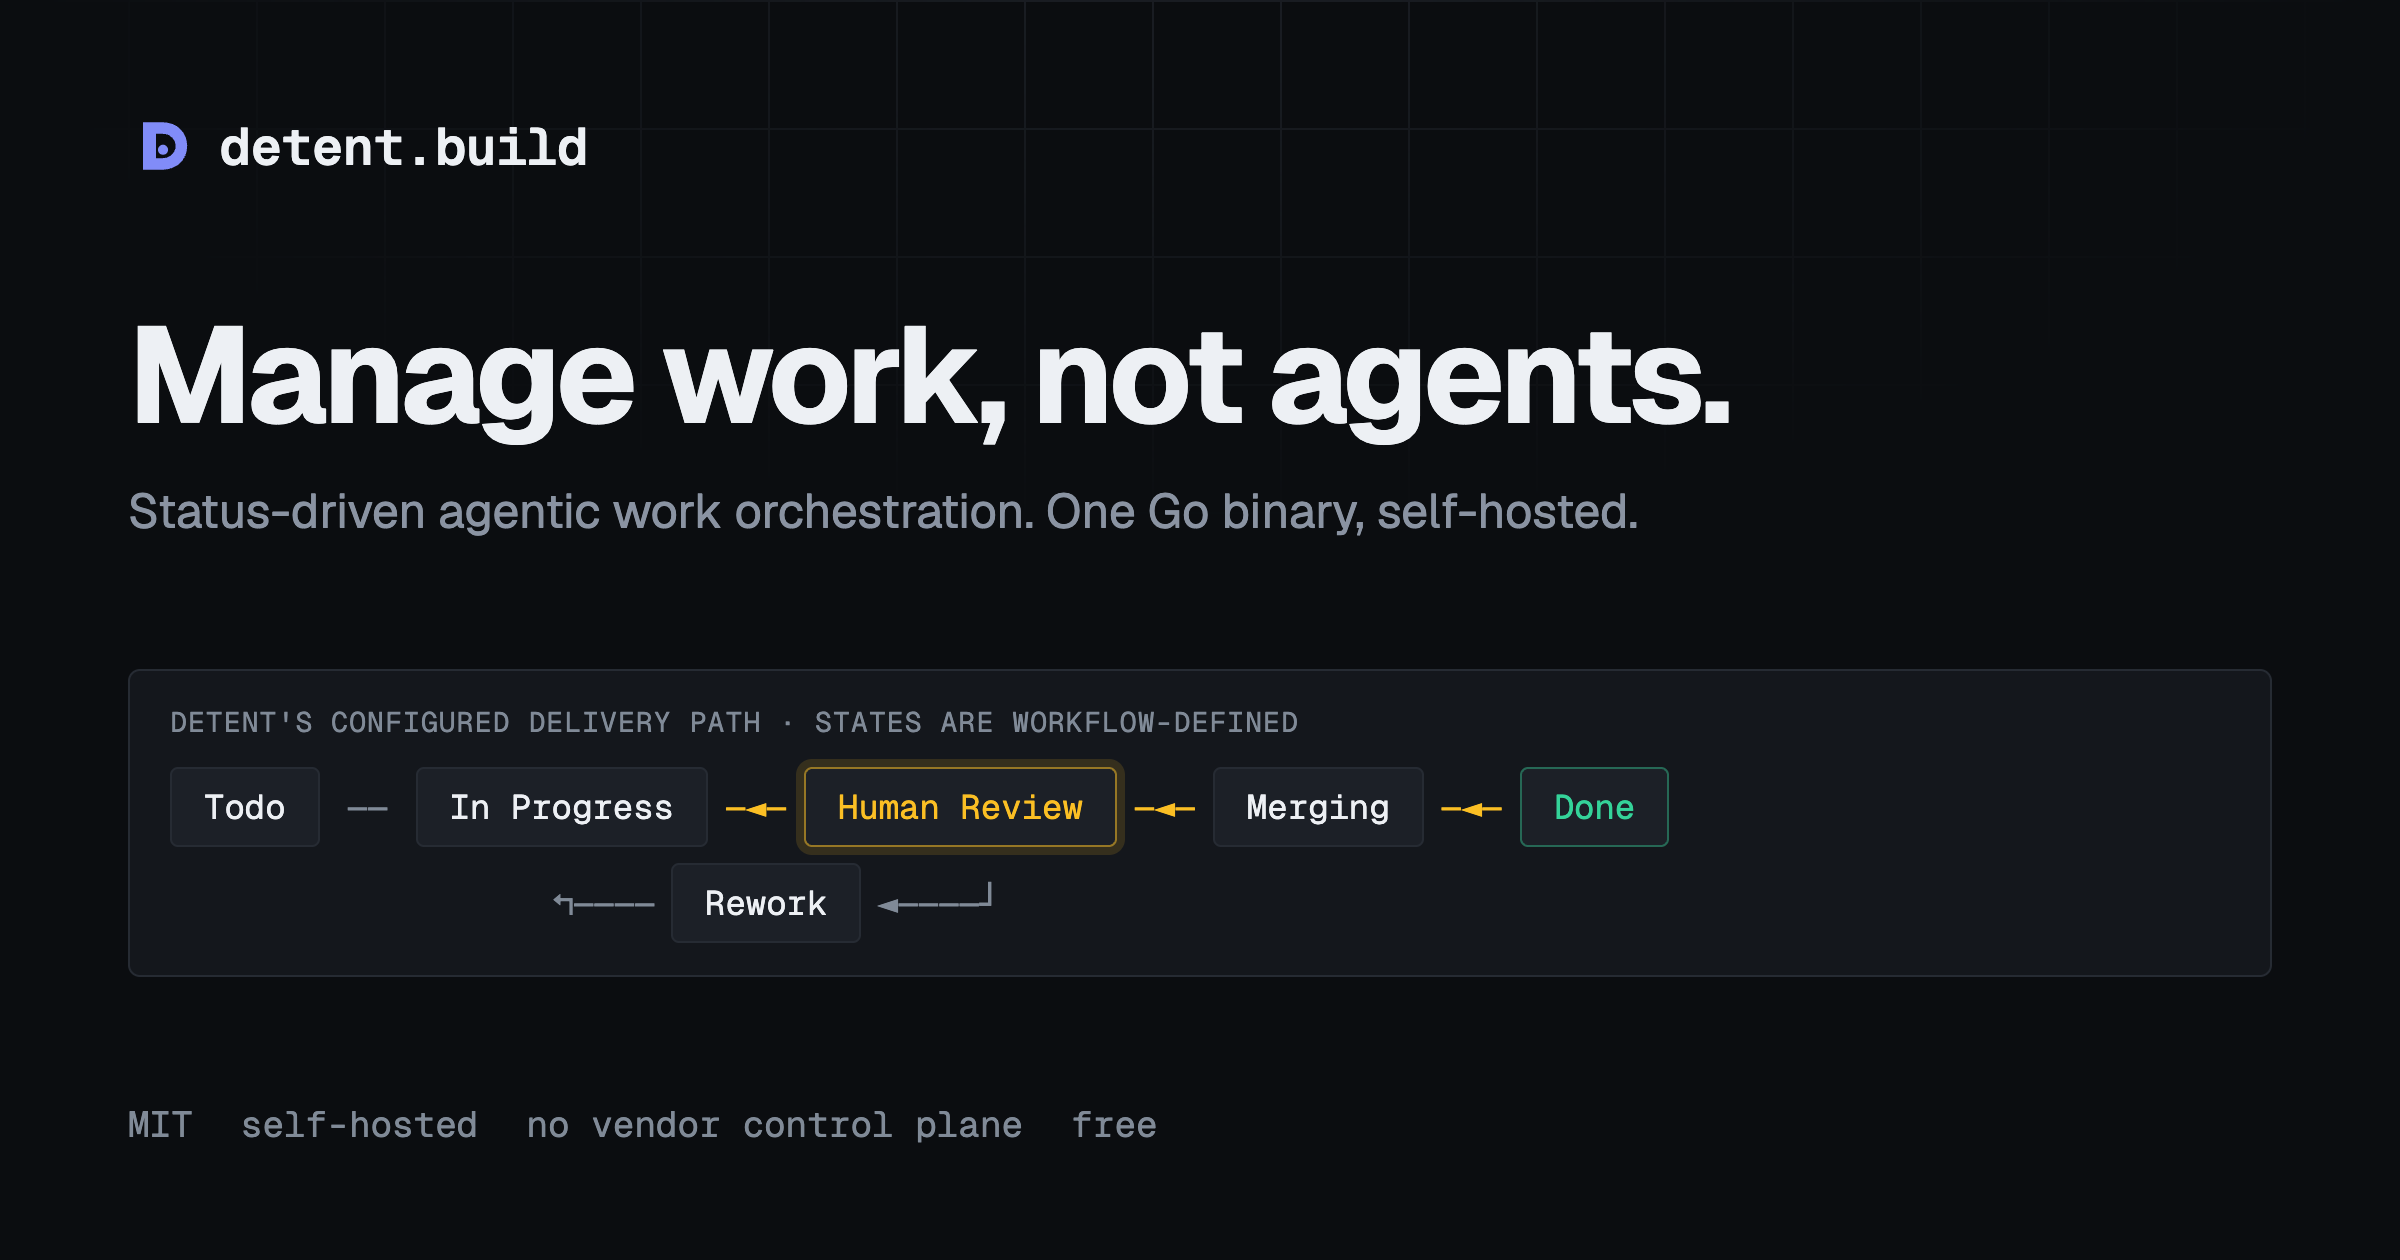
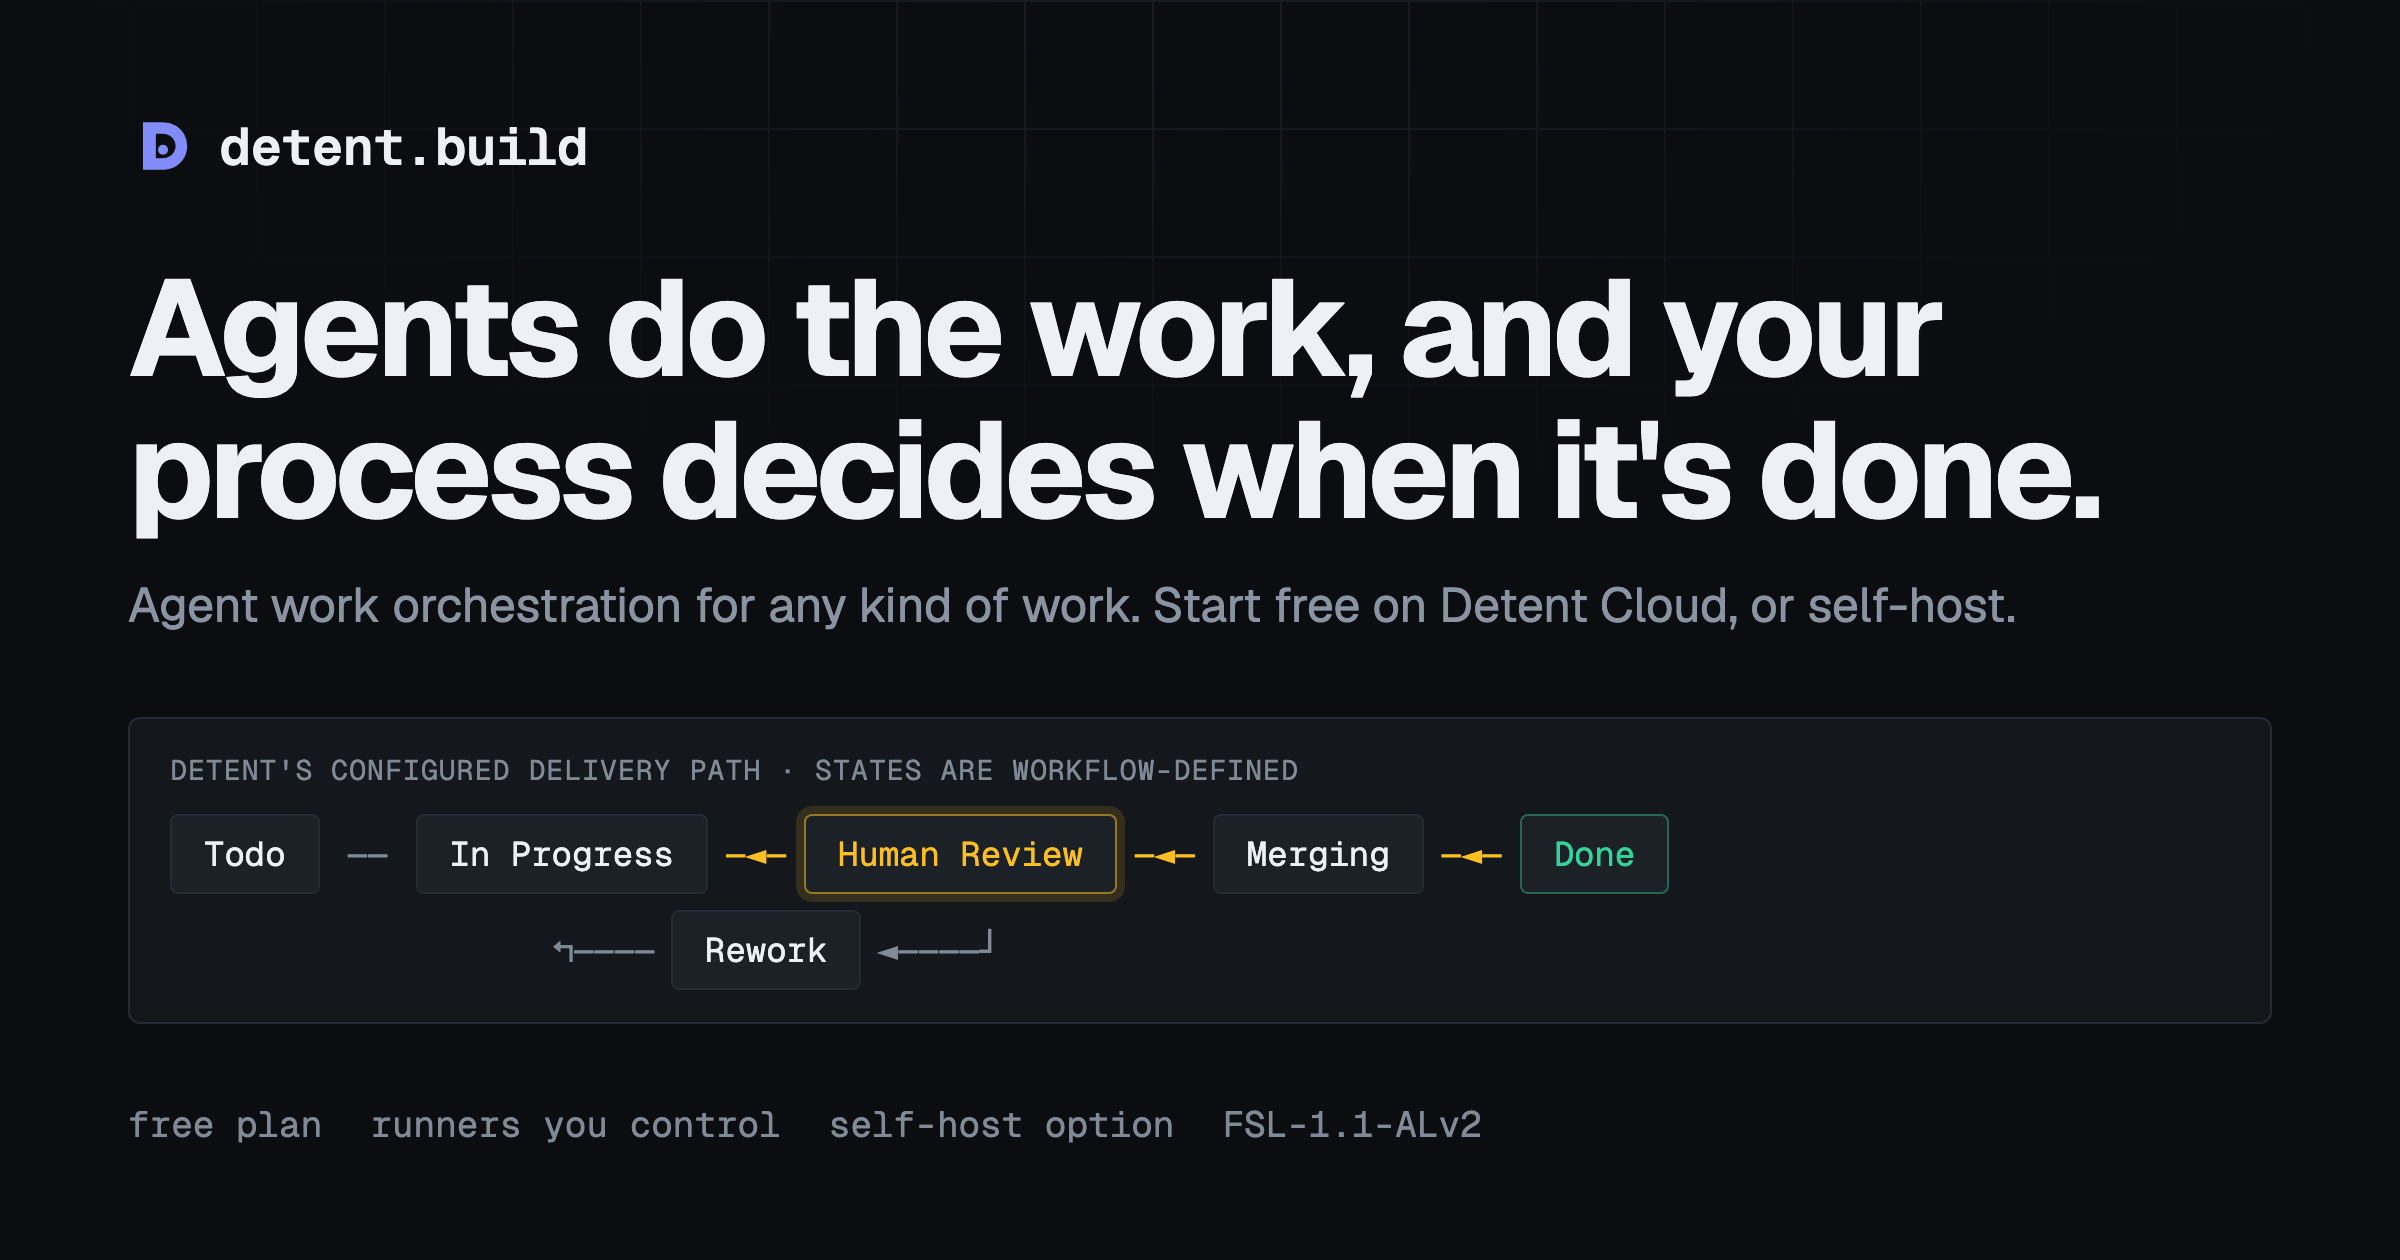
chore(content): remove Symphony; voice and slop pass on site copy (#93)
* chore(content): remove the Symphony lineage from the site

* chore(content): edit site copy for voice and new headline

diff --git a/design/og-card.html b/design/og-card.html
@@ -2,7 +2,7 @@
 <html lang="en">
   <head>
     <meta charset="utf-8" />
-    <title>detent.build — Open Graph card source</title>
+    <title>detent.build Open Graph card source</title>
     <!--
       Source for static/images/og-default.png. Render at exactly 1200x630 with
       a device scale factor of 2 and screenshot. Uses the product's own tokens
@@ -110,9 +110,9 @@
     </div>
 
     <div>
-      <h1>Manage work, not agents.</h1>
+      <h1>Agents do the work, and your process decides when it&#39;s done.</h1>
       <p class="lede">
-        Status-driven agentic work orchestration. One Go binary, self-hosted.
+        Agent work orchestration for any kind of work. Start free on Detent Cloud, or self-host.
       </p>
     </div>
 
@@ -135,7 +135,7 @@
     </div>
 
     <div class="meta">
-      <span>MIT</span><span>self-hosted</span><span>no vendor control plane</span><span>free</span>
+      <span>free plan</span><span>runners you control</span><span>self-host option</span><span>FSL-1.1-ALv2</span>
     </div>
   </body>
 </html>

diff --git a/internal/content/content.go b/internal/content/content.go
@@ -15,16 +15,15 @@ import (
 )
 
 const (
-	RepoURL            = docs.SourceRepository
-	DetentConfigURL    = RepoURL + "/blob/main/detent.yaml"
-	DetentWorkflowURL  = RepoURL + "/blob/main/WORKFLOW.md"
-	ReleasesURL        = "https://github.com/digitaldrywood/detent/releases"
-	LicenseURL         = "https://github.com/digitaldrywood/detent/blob/main/LICENSE"
-	IssuesURL          = "https://github.com/digitaldrywood/detent/issues"
-	ContributingURL    = "https://github.com/digitaldrywood/detent/blob/main/CONTRIBUTING.md"
-	CIURL              = "https://github.com/digitaldrywood/detent/actions/workflows/ci.yml"
-	SymphonyURL        = "https://github.com/openai/symphony"
-	CodexCLIURL        = "https://github.com/openai/codex"
+	RepoURL           = docs.SourceRepository
+	DetentConfigURL   = RepoURL + "/blob/main/detent.yaml"
+	DetentWorkflowURL = RepoURL + "/blob/main/WORKFLOW.md"
+	ReleasesURL       = "https://github.com/digitaldrywood/detent/releases"
+	LicenseURL        = "https://github.com/digitaldrywood/detent/blob/main/LICENSE"
+	IssuesURL         = "https://github.com/digitaldrywood/detent/issues"
+	ContributingURL   = "https://github.com/digitaldrywood/detent/blob/main/CONTRIBUTING.md"
+	CIURL             = "https://github.com/digitaldrywood/detent/actions/workflows/ci.yml"
+	CodexCLIURL       = "https://github.com/openai/codex"
 
 	DocsBase = RepoURL + "/blob/" + docs.CommitSHA + "/docs/"
 
@@ -41,15 +40,15 @@ const (
 	VersionBare = "0.164.2"
 	License     = "FSL-1.1-ALv2"
 
-	HomeTitle       = "Manage work, not agents"
-	HomeHeadline    = HomeTitle + "."
+	HomeTitle       = "Agent work orchestration"
+	HomeHeadline    = "Agents do the work, and your process decides when it's done."
 	HomeDescription = "Detent is an orchestration layer for agent work. Write issues on a board whose lanes and gates your workflow defines; " +
 		"Detent hands each ready issue to an agent on a machine you control, checks the result against your gates, and moves it forward. " +
 		"Code, video, documents, or office workflows. Start free on Detent Cloud, or self-host the Hub."
 	HomeHeroDeckBeforeTodo = "You put an issue in "
 	HomeHeroDeckAfterTodo  = ". A runner on a machine you control claims it, runs Codex or Claude Code against the " +
 		"contract you checked in, and moves it between the states your workflow defines, holding it wherever you put a gate."
-	HomeHeroStatement = "You are not steering an agent; you are running your own process at scale."
+	HomeHeroStatement = "Instead of steering one agent through a chat, you run your own process across many agents at once."
 
 	DetentREADMEURL             = RepoURL + "/blob/" + docs.CommitSHA + "/README.md"
 	DefiniteStatesHeading       = "A detent makes position definite."
@@ -63,68 +62,8 @@ const (
 	DefiniteStatesMoveQuestion  = "Who moves it?"
 	DefiniteStatesMoveAutonomy  = "You, by talking to the agent."
 	DefiniteStatesMoveDetent    = "The runtime when the condition is met, or you by changing the state."
-	DefiniteStatesLaneRail      = "The board above and the lane rail below are the visible form of the claim: managed work sits at a state the workflow defines, rather than somewhere inside a session you have to read to locate."
-
-	LineageHeading = "Symphony named the thesis. Detent shipped the system."
-	LineageSummary = "\"Manage work, not agents\" is OpenAI Symphony's phrase. Detent grew out of that open spec " +
-		"and took the idea from spec to a shipped system."
+	DefiniteStatesLaneRail      = "The board above and the lane rail below show where each piece of work sits. It is always at a state the workflow defines, so you never have to read through an agent session to find it."
 )
-
-type LineageFragment struct {
-	Text string
-	Mono bool
-}
-
-type lineageDivergence struct {
-	Title string
-	Body  []LineageFragment
-}
-
-var LineageSymphony = []LineageFragment{
-	{Text: "Symphony is an Apache-2.0 "},
-	{Text: "SPEC.md", Mono: true},
-	{Text: " plus an Elixir reference implementation that polls a Linear board."},
-}
-
-var LineageHistory = []LineageFragment{
-	{Text: "Detent began as an Elixir/OTP implementation adapted from Symphony's Linear target to GitHub Projects v2. "},
-	{Text: "It is now a ground-up Go rewrite with its own native board; that earlier implementation is archived."},
-}
-
-var LineageDivergences = []lineageDivergence{
-	{
-		Title: "One binary",
-		Body: []LineageFragment{
-			{Text: "The Hub and the runner are the same CGO-free Go binary for macOS, Linux, and Windows."},
-		},
-	},
-	{
-		Title: "A native board",
-		Body: []LineageFragment{
-			{Text: "The Hub holds issues, lanes, comments, dependencies, and Change Requests. GitHub is an optional integration for importing issues."},
-		},
-	},
-	{
-		Title: "Runners you enroll",
-		Body: []LineageFragment{
-			{Text: "Agents run on machines you enroll, next to your checkout, your toolchain, and your agent sign-ins."},
-		},
-	},
-	{
-		Title: "Configurable gates",
-		Body: []LineageFragment{
-			{Text: "Your gate command, an automated validator, or a person in Human Review, then serialized landing one change at a time."},
-		},
-	},
-	{
-		Title: "Operator surface",
-		Body: []LineageFragment{
-			{Text: "A web app, MCP access for your own agents, "},
-			{Text: "detent doctor", Mono: true},
-			{Text: ", and a GoReleaser pipeline."},
-		},
-	},
-}
 
 var versionAvailability = []VersionAvailability{
 	{
@@ -277,7 +216,7 @@ var InstallTargets = []InstallTarget{
 		Key:     "macos",
 		Label:   "macOS",
 		Shell:   "sh",
-		Primary: Command{"Homebrew — recommended when you already manage CLI tools with brew", "brew install digitaldrywood/tap/detent"},
+		Primary: Command{"Homebrew, if you already manage CLI tools with brew", "brew install digitaldrywood/tap/detent"},
 		Others: []Command{
 			{"Or build from source with Go", "go install github.com/digitaldrywood/detent/cmd/detent@latest"},
 		},
@@ -287,7 +226,7 @@ var InstallTargets = []InstallTarget{
 		Key:     "linux",
 		Label:   "Linux",
 		Shell:   "sh",
-		Primary: Command{"Shell installer — downloads the release archive and verifies its SHA-256 checksum", "curl -fsSL https://raw.githubusercontent.com/digitaldrywood/detent/main/install.sh | sh"},
+		Primary: Command{"Shell installer, which downloads the release archive and verifies its SHA-256 checksum", "curl -fsSL https://raw.githubusercontent.com/digitaldrywood/detent/main/install.sh | sh"},
 		Others: []Command{
 			{"Or a native .deb, so apt owns the binary, removal, and upgrades",
 				"DETENT_VERSION=" + VersionBare + " DETENT_ARCH=amd64 \\\n" +
@@ -305,7 +244,7 @@ var InstallTargets = []InstallTarget{
 		Key:     "windows",
 		Label:   "Windows",
 		Shell:   "powershell",
-		Primary: Command{"Winget — use the package manager that already manages your developer tools", "winget install --id DigitalDrywood.Detent --source winget"},
+		Primary: Command{"Winget, if it already manages your developer tools", "winget install --id DigitalDrywood.Detent --source winget"},
 		Others: []Command{
 			{"Or Scoop, for a user-local install", "scoop bucket add digitaldrywood https://github.com/digitaldrywood/scoop-bucket\nscoop install detent"},
 			{"Or the PowerShell installer, for bootstrap and CI images", "irm https://raw.githubusercontent.com/digitaldrywood/detent/main/install.ps1 | iex"},
@@ -529,8 +468,8 @@ const BoardLabel = "composed snapshot"
 const (
 	DashboardLaneHeading     = "Detent's configured delivery path."
 	HowItWorksStateHeading   = "A configured path, and the catches between states."
-	HowItWorksStateDetail    = "Lanes are workflow-defined. These six are the delivery path — a workflow can define fewer, more, or different ones. Detent's own board configures nine states in total, adding Backlog and Blocked ahead of Todo and Cancelled alongside Done."
-	OpenGraphDefaultImageAlt = "Detent social card headed Manage work, not agents, with Rework returning from Human Review to In Progress in a workflow-defined delivery path."
+	HowItWorksStateDetail    = "Lanes are workflow-defined. These six are the delivery path, and a workflow can define fewer, more, or different ones. Detent's own board configures nine states in total, adding Backlog and Blocked ahead of Todo and Cancelled alongside Done."
+	OpenGraphDefaultImageAlt = "Detent social card headed Agents do the work, and your process decides when it's done, with Rework returning from Human Review to In Progress in a workflow-defined delivery path."
 )
 
 // BoardCaption is the honesty note printed under the hero board.

diff --git a/internal/handler/handler_test.go b/internal/handler/handler_test.go
@@ -65,9 +65,9 @@ func TestPagesRender(t *testing.T) {
 		path string
 		want string
 	}{
-		{"/", "Manage work, not agents."},
+		{"/", "Agents do the work, and your process decides when it&#39;s done."},
 		{"/how-it-works", "The mechanism, stop by stop."},
-		{"/why-detent", "You are not steering an agent."},
+		{"/why-detent", "Run your own process across many agents at once."},
 		{"/dashboard", "The board stays honest."},
 		{"/install", "It is the runner, and it can be the Hub."},
 		{"/open-source", "Source available. Free to self-host."},
@@ -200,54 +200,17 @@ func TestContentSecurityPolicyRemainsExact(t *testing.T) {
 	}
 }
 
-func TestHomeOwnsSymphonyLineage(t *testing.T) {
+func TestNoPageMentionsSymphony(t *testing.T) {
 	e := newTestServer(t)
-	rec := get(t, e, "/", nil)
-	body := html.UnescapeString(rec.Body.String())
 
-	if rec.Code != http.StatusOK {
-		t.Fatalf("status = %d, want %d", rec.Code, http.StatusOK)
-	}
-	for _, want := range []string{
-		`"Manage work, not agents" is OpenAI Symphony's phrase.`,
-		"Symphony is an Apache-2.0 ",
-		"SPEC.md",
-		"plus an Elixir reference implementation that polls a Linear board.",
-		"A native board",
-		"Runners you enroll",
-		"GitHub is an optional integration",
-		"Detent began as an Elixir/OTP implementation adapted from Symphony's Linear target to GitHub Projects v2.",
-		`href="https://github.com/openai/symphony"`,
-	} {
-		if !strings.Contains(body, want) {
-			t.Errorf("body does not contain %q", want)
+	for _, path := range []string{"/", "/how-it-works", "/why-detent", "/pricing", "/install", "/open-source", "/dashboard", "/videos", "/docs"} {
+		rec := get(t, e, path, nil)
+		if rec.Code != http.StatusOK {
+			t.Fatalf("%s status = %d, want %d", path, rec.Code, http.StatusOK)
 		}
-	}
-
-	lineageAt := strings.Index(body, "Symphony named the thesis")
-	inversionAt := strings.Index(body, "A system, not an agent")
-	if lineageAt < 0 || inversionAt < 0 || lineageAt >= inversionAt {
-		t.Errorf("lineage section must appear before the inversion: lineage=%d inversion=%d", lineageAt, inversionAt)
-	}
-}
-
-func TestLineageMachineLiteralsUseMono(t *testing.T) {
-	e := newTestServer(t)
-
-	for _, path := range []string{"/", "/open-source"} {
-		t.Run(path, func(t *testing.T) {
-			rec := get(t, e, path, nil)
-
-			if rec.Code != http.StatusOK {
-				t.Fatalf("status = %d, want %d", rec.Code, http.StatusOK)
-			}
-			for _, literal := range []string{"SPEC.md", "detent doctor"} {
-				want := `<span class="font-mono text-xs">` + literal + `</span>`
-				if !strings.Contains(rec.Body.String(), want) {
-					t.Errorf("body does not contain %q", want)
-				}
-			}
-		})
+		if strings.Contains(strings.ToLower(rec.Body.String()), "symphony") {
+			t.Errorf("%s mentions Symphony", path)
+		}
 	}
 }
 
@@ -424,8 +387,8 @@ func TestWorkflowStatesArePresentedAsConfigurable(t *testing.T) {
 			want: []string{
 				html.EscapeString(content.BoardCaption),
 				`id="lanes"`,
-				"Detent is the orchestration layer, not a coding tool.",
-				`content="` + content.OpenGraphDefaultImageAlt + `"`,
+				"Detent is an orchestration layer, and the work it moves does not have to be code.",
+				`content="` + html.EscapeString(content.OpenGraphDefaultImageAlt) + `"`,
 			},
 			forbidden: []string{"one item at every stop", "The six board lanes", "the gates decide when it lands. The six"},
 		},
@@ -468,7 +431,7 @@ func TestHomeExplainsDefiniteStatesBetweenHeroAndInversion(t *testing.T) {
 		content.DefiniteStatesWaitQuestion,
 		content.DefiniteStatesMoveQuestion,
 		content.DefiniteStatesLaneRail,
-		"A system, not an agent.",
+		"Where the intelligence lives.",
 	} {
 		position := strings.Index(body, html.EscapeString(want))
 		if position == -1 {
@@ -496,7 +459,7 @@ func TestHomeExplainsDefiniteStatesBetweenHeroAndInversion(t *testing.T) {
 	}
 
 	previous = 0
-	for _, want := range []string{"02", "03", "04", "05", "06", "07", "08", "09", "10", "11"} {
+	for _, want := range []string{"02", "03", "04", "05", "06", "07", "08", "09", "10"} {
 		marker := `class="text-accent">` + want + `</span>`
 		position := strings.Index(body[previous:], marker)
 		if position == -1 {

diff --git a/internal/content/content_test.go b/internal/content/content_test.go
@@ -101,31 +101,3 @@ func TestPinnedDocumentationLinksUseVendoredCommit(t *testing.T) {
 	}
 }
 
-func TestLineageNamesTheCurrentArchitecture(t *testing.T) {
-	var lineage strings.Builder
-	lineage.WriteString(LineageHeading)
-	lineage.WriteString(LineageSummary)
-	for _, fragment := range LineageSymphony {
-		lineage.WriteString(fragment.Text)
-	}
-	for _, fragment := range LineageHistory {
-		lineage.WriteString(fragment.Text)
-	}
-	for _, divergence := range LineageDivergences {
-		lineage.WriteString(divergence.Title)
-		for _, fragment := range divergence.Body {
-			lineage.WriteString(fragment.Text)
-		}
-	}
-
-	for _, want := range []string{
-		"native board",
-		"Change Requests",
-		"GitHub is an optional integration",
-		"Runners you enroll",
-	} {
-		if !strings.Contains(lineage.String(), want) {
-			t.Errorf("lineage does not contain %q", want)
-		}
-	}
-}

diff --git a/internal/content/matrix_test.go b/internal/content/matrix_test.go
@@ -5,7 +5,7 @@ import "testing"
 // The site claims the comparison matrix is copied from docs/comparison.md,
 // including the rows Detent loses. A drifting copy makes that claim false, and
 // a dropped row is how the claim broke the first time — the ~5-min setup row
-// went missing. The October 7, 2026 source dropped the Symphony column and
+// went missing. The October 7, 2026 source dropped a competitor column and
 // the setup-time and free rows itself. These assertions pin shape and the rows most likely to be
 // quietly softened in Detent's favor.
 //
